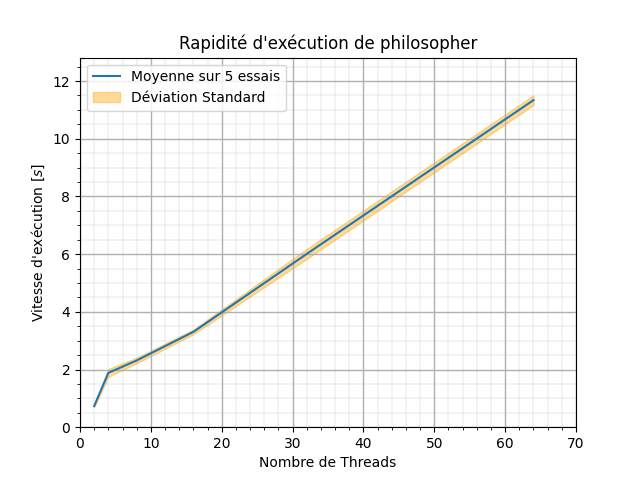
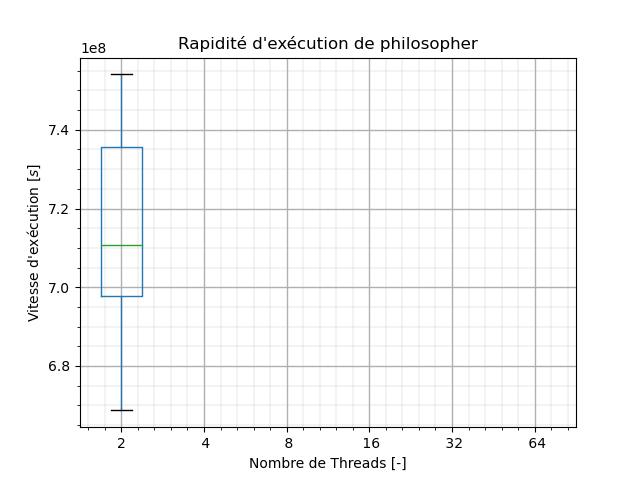
eval.sh buggé, boxplot dans plot.py et début semaphore 2.4

diff --git a/Inginious/P1/perf/plot.py b/Inginious/P1/perf/plot.py
@@ -7,7 +7,7 @@ timeScale = ["ns", "µs", "ms", "s"]
 
 for f in os.listdir("perf/data"):
     if f.split(".")[-1] == "csv":
-        data = pd.read_csv(f"perf/data/{f}")        
+        data = pd.read_csv(f"perf/data/{f}")       
         fig, ax = plt.subplots()
         maximum = data.to_numpy().max()
         width = data.shape[1]
@@ -32,21 +32,27 @@ for f in os.listdir("perf/data"):
             
             standard[i] = (data[col].to_numpy()/(1000**track)).std()
             
-        ax.plot(t, av/(1000**track), label=f"Moyenne sur {len(data[col])} essais")
-        ax.fill_between(t, av/(1000**track) - standard, av/(1000**track) + standard, alpha=0.4, color="orange", label="Déviation Standard")
+        #ax.plot(t, av/(1000**track), label=f"Moyenne sur {len(data[col])} essais")
+        #ax.fill_between(t, av/(1000**track) - standard, av/(1000**track) + standard, alpha=0.4, color="orange", label="Déviation Standard")
+
+        #boxplot from df:
+        data.boxplot(ax=ax)
+
+
         
         ax.set_title(f"Rapidité d'exécution de {f.split('.')[0]}")
-        ax.set_xlabel("Nombre de Threads")
-        ax.set_xlim(0, 70)
+        ax.set_xlabel("Nombre de Threads [-]")
+        #ax.set_xlim(0, 70)
         
         ax.set_ylabel(f"Vitesse d'exécution [${timeScale[track]}$]")
-        ax.set_ylim(0, maximum/(1000**track)*1.1)
+        #ax.set_ylim(0, maximum/(1000**track)*1.1)
 
         ax.minorticks_on()
         ax.grid(which = "major", linewidth = 1)
         ax.grid(which = "minor", linewidth = 0.2)
         
-        ax.legend()
+        
+        #ax.legend()
                 
         fig.savefig(f"perf/plot/{f.split('.')[0]}_plot.png")
         data.plot()

diff --git a/Inginious/P1/src/sem.c b/Inginious/P1/src/sem.c
@@ -1,0 +1,44 @@
+#include <stdio.h>
+#include <stdlib.h>
+#include <pthread.h>
+#include "test-test-and-set.c"
+
+
+int *sem_value;
+int waiting_thr = 0;
+int verrou = 0;
+
+
+void init(int *sem_value, int value){
+    *sem_value = value;
+}
+
+
+void wait(){
+
+    if(*sem_value > 0){*sem_value = *sem_value -1;}
+
+    else{//Thread must wait
+    waiting_thr++;
+    lock();
+    }
+
+}
+
+
+
+void post(int *sem_value){
+
+    if(waiting_thr >0){//one thread is freed
+    unlock();
+    waiting_thr--;}
+
+    else{*sem_value = *sem_value +1;}
+
+}
+
+
+
+int main(int argc, char** argv){
+
+}

diff --git a/Inginious/P1/src/prod-cons.c b/Inginious/P1/src/prod-cons.c
@@ -101,6 +101,8 @@ void* consumer(void* rien){
 
 
 int main(int argc, char *argv[]){
+
+
     pthread_mutex_init(&mutex, NULL);
     sem_init(&empty, 0 , N); // buffer vide
     sem_init(&full, 0 , 0); // buffer vide

diff --git a/Inginious/P1/src/test-test-and-set.c b/Inginious/P1/src/test-test-and-set.c
@@ -1,6 +1,7 @@
 #include <stdio.h>
 #include <stdlib.h>
 #include <pthread.h>
+#include "test-test-and-set.h"
 
 
 int verrou = 0;

diff --git a/Inginious/P1/src/test-test-and-set.h b/Inginious/P1/src/test-test-and-set.h
@@ -1,0 +1,11 @@
+#ifndef TEST_TEST_AND_SET_H
+#define TEST_TEST_AND_SET_H
+
+
+
+void lock();
+
+void unlock();
+
+
+#endif
